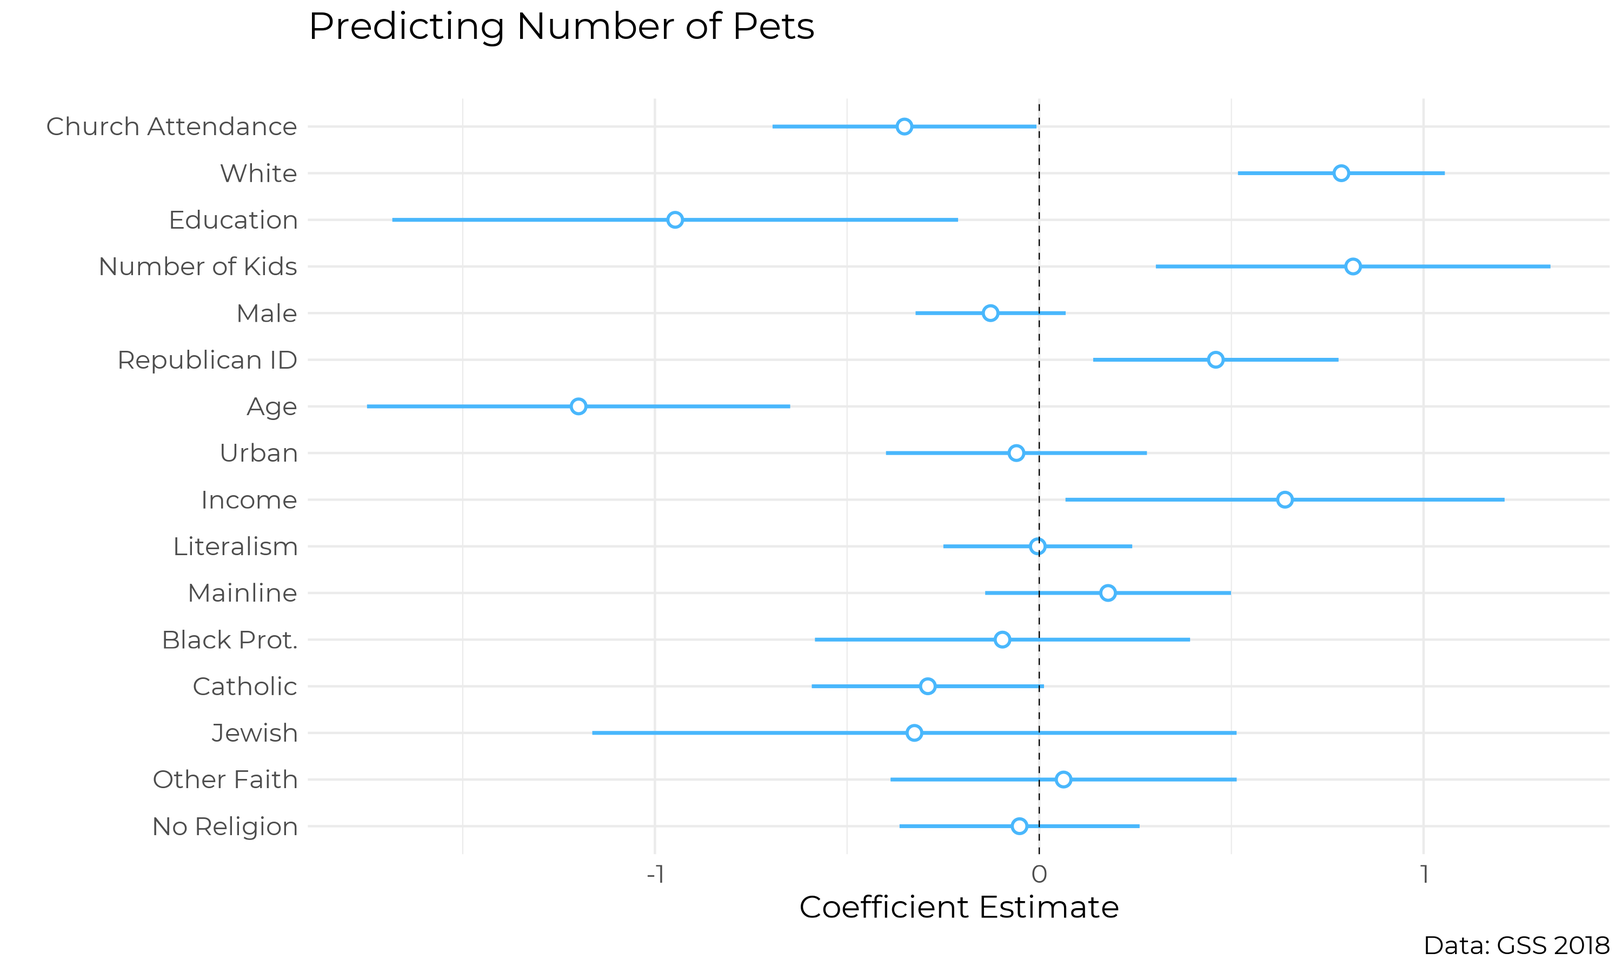
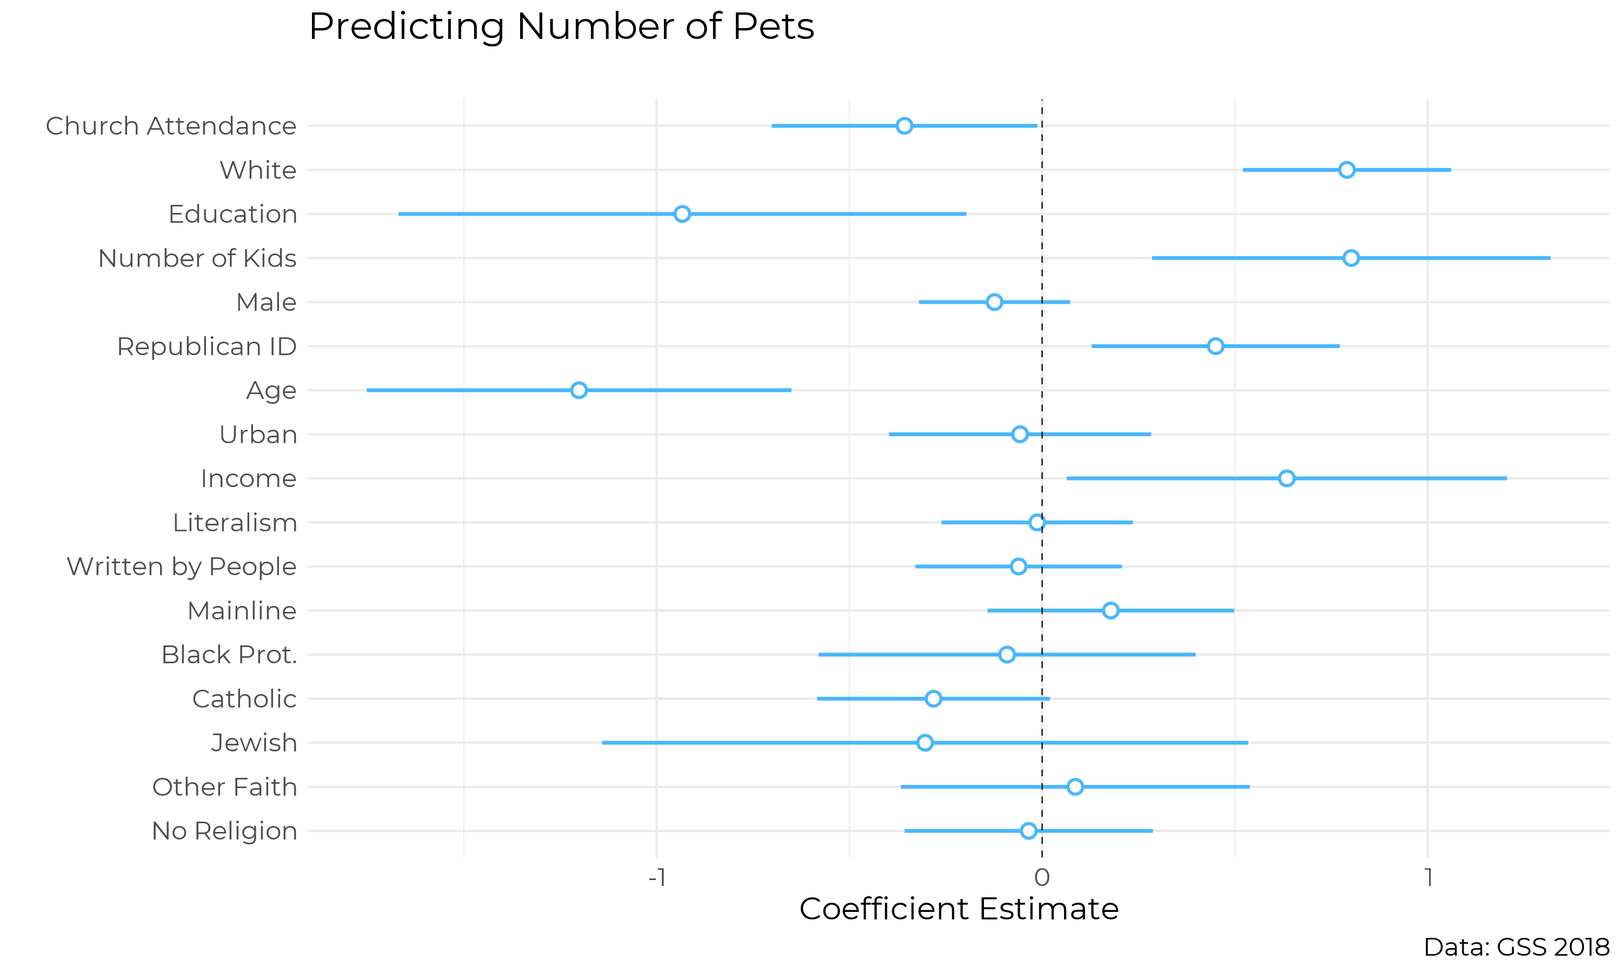
working through the R and R.

diff --git a/images/fig4_new.htm b/images/fig4_new.htm
@@ -1,62 +1,48 @@
 
 <table style="text-align:center"><caption><strong>Figure 3 Regression Model</strong></caption>
-<tr><td colspan="6" style="border-bottom: 1px solid black"></td></tr><tr><td style="text-align:left"></td><td colspan="5"><em>Dependent variable:</em></td></tr>
-<tr><td></td><td colspan="5" style="border-bottom: 1px solid black"></td></tr>
-<tr><td style="text-align:left"></td><td>Cat</td><td>Dog</td><td>Fish</td><td>Bird</td><td>Small Mammal</td></tr>
-<tr><td style="text-align:left"></td><td>(1)</td><td>(2)</td><td>(3)</td><td>(4)</td><td>(5)</td></tr>
-<tr><td colspan="6" style="border-bottom: 1px solid black"></td></tr><tr><td style="text-align:left">Church Attendance</td><td>-0.786<sup>*</sup></td><td>-0.061</td><td>-0.362</td><td>0.226</td><td>-1.385</td></tr>
-<tr><td style="text-align:left"></td><td>(0.371)</td><td>(0.417)</td><td>(0.845)</td><td>(0.744)</td><td>(0.901)</td></tr>
-<tr><td style="text-align:left"></td><td></td><td></td><td></td><td></td><td></td></tr>
-<tr><td style="text-align:left">White</td><td>0.577</td><td>-0.136</td><td>0.693</td><td>0.393</td><td>1.193</td></tr>
-<tr><td style="text-align:left"></td><td>(0.309)</td><td>(0.347)</td><td>(0.782)</td><td>(0.558)</td><td>(1.027)</td></tr>
-<tr><td style="text-align:left"></td><td></td><td></td><td></td><td></td><td></td></tr>
-<tr><td style="text-align:left">Male</td><td>-0.055</td><td>-0.558<sup>*</sup></td><td>-0.095</td><td>0.971<sup>*</sup></td><td>-0.193</td></tr>
-<tr><td style="text-align:left"></td><td>(0.201)</td><td>(0.228)</td><td>(0.466)</td><td>(0.420)</td><td>(0.474)</td></tr>
-<tr><td style="text-align:left"></td><td></td><td></td><td></td><td></td><td></td></tr>
-<tr><td style="text-align:left">Income</td><td>0.542</td><td>1.229</td><td>6.758</td><td>-1.020</td><td>1.398</td></tr>
-<tr><td style="text-align:left"></td><td>(0.651)</td><td>(0.675)</td><td>(3.767)</td><td>(0.855)</td><td>(2.246)</td></tr>
-<tr><td style="text-align:left"></td><td></td><td></td><td></td><td></td><td></td></tr>
-<tr><td style="text-align:left">Republican ID</td><td>0.051</td><td>0.132</td><td>0.947</td><td>0.796</td><td>1.730<sup>*</sup></td></tr>
-<tr><td style="text-align:left"></td><td>(0.324)</td><td>(0.358)</td><td>(0.793)</td><td>(0.656)</td><td>(0.834)</td></tr>
-<tr><td style="text-align:left"></td><td></td><td></td><td></td><td></td><td></td></tr>
-<tr><td style="text-align:left">Number of Kids</td><td>-0.008</td><td>0.872</td><td>1.408</td><td>0.548</td><td>2.266<sup>*</sup></td></tr>
-<tr><td style="text-align:left"></td><td>(0.525)</td><td>(0.603)</td><td>(1.075)</td><td>(0.924)</td><td>(1.144)</td></tr>
-<tr><td style="text-align:left"></td><td></td><td></td><td></td><td></td><td></td></tr>
-<tr><td style="text-align:left">Age</td><td>0.157</td><td>-0.469</td><td>-3.075<sup>*</sup></td><td>-1.135</td><td>-5.863<sup>*</sup></td></tr>
-<tr><td style="text-align:left"></td><td>(0.594)</td><td>(0.669)</td><td>(1.501)</td><td>(1.192)</td><td>(1.846)</td></tr>
-<tr><td style="text-align:left"></td><td></td><td></td><td></td><td></td><td></td></tr>
-<tr><td style="text-align:left">Education</td><td>1.047</td><td>-2.325<sup>*</sup></td><td>-3.732<sup>*</sup></td><td>-4.068<sup>*</sup></td><td>3.242</td></tr>
-<tr><td style="text-align:left"></td><td>(0.788)</td><td>(0.891)</td><td>(1.839)</td><td>(1.415)</td><td>(1.904)</td></tr>
-<tr><td style="text-align:left"></td><td></td><td></td><td></td><td></td><td></td></tr>
-<tr><td style="text-align:left">Urban</td><td>-0.381</td><td>-0.849<sup>*</sup></td><td>-0.032</td><td>1.116<sup>*</sup></td><td>0.046</td></tr>
-<tr><td style="text-align:left"></td><td>(0.374)</td><td>(0.372)</td><td>(0.817)</td><td>(0.543)</td><td>(0.823)</td></tr>
-<tr><td style="text-align:left"></td><td></td><td></td><td></td><td></td><td></td></tr>
-<tr><td style="text-align:left">Literalism</td><td>-0.481</td><td>0.277</td><td>0.160</td><td>-0.361</td><td>-0.481</td></tr>
-<tr><td style="text-align:left"></td><td>(0.265)</td><td>(0.306)</td><td>(0.578)</td><td>(0.539)</td><td>(0.671)</td></tr>
-<tr><td style="text-align:left"></td><td></td><td></td><td></td><td></td><td></td></tr>
-<tr><td style="text-align:left">Mainline</td><td>0.367</td><td>-0.936<sup>*</sup></td><td>0.154</td><td>-0.299</td><td>-1.444</td></tr>
-<tr><td style="text-align:left"></td><td>(0.311)</td><td>(0.345)</td><td>(0.743)</td><td>(0.843)</td><td>(1.113)</td></tr>
-<tr><td style="text-align:left"></td><td></td><td></td><td></td><td></td><td></td></tr>
-<tr><td style="text-align:left">Black Prot.</td><td>-0.768</td><td>-0.008</td><td>1.143</td><td>-0.209</td><td>1.616</td></tr>
-<tr><td style="text-align:left"></td><td>(0.709)</td><td>(0.689)</td><td>(1.329)</td><td>(1.224)</td><td>(1.485)</td></tr>
-<tr><td style="text-align:left"></td><td></td><td></td><td></td><td></td><td></td></tr>
-<tr><td style="text-align:left">Catholic</td><td>-0.760<sup>*</sup></td><td>0.131</td><td>-0.714</td><td>0.530</td><td>-0.924</td></tr>
-<tr><td style="text-align:left"></td><td>(0.327)</td><td>(0.392)</td><td>(0.849)</td><td>(0.602)</td><td>(0.847)</td></tr>
-<tr><td style="text-align:left"></td><td></td><td></td><td></td><td></td><td></td></tr>
-<tr><td style="text-align:left">Jewish</td><td>-15.765</td><td>-1.240</td><td>-13.403</td><td>2.297</td><td>1.624</td></tr>
-<tr><td style="text-align:left"></td><td>(575.951)</td><td>(0.893)</td><td>(918.449)</td><td>(1.262)</td><td>(1.019)</td></tr>
-<tr><td style="text-align:left"></td><td></td><td></td><td></td><td></td><td></td></tr>
-<tr><td style="text-align:left">Other Faith</td><td>0.346</td><td>-0.972<sup>*</sup></td><td>1.330</td><td>1.270</td><td>0.653</td></tr>
-<tr><td style="text-align:left"></td><td>(0.442)</td><td>(0.470)</td><td>(0.807)</td><td>(0.791)</td><td>(0.820)</td></tr>
-<tr><td style="text-align:left"></td><td></td><td></td><td></td><td></td><td></td></tr>
-<tr><td style="text-align:left">No Religion</td><td>-0.058</td><td>-0.237</td><td>-0.031</td><td>0.307</td><td>-0.711</td></tr>
-<tr><td style="text-align:left"></td><td>(0.310)</td><td>(0.370)</td><td>(0.674)</td><td>(0.643)</td><td>(0.659)</td></tr>
-<tr><td style="text-align:left"></td><td></td><td></td><td></td><td></td><td></td></tr>
-<tr><td style="text-align:left">Constant</td><td>-1.607</td><td>2.289<sup>*</sup></td><td>-6.833</td><td>-0.343</td><td>-5.400<sup>*</sup></td></tr>
-<tr><td style="text-align:left"></td><td>(0.857)</td><td>(0.939)</td><td>(3.857)</td><td>(1.409)</td><td>(2.641)</td></tr>
-<tr><td style="text-align:left"></td><td></td><td></td><td></td><td></td><td></td></tr>
-<tr><td colspan="6" style="border-bottom: 1px solid black"></td></tr><tr><td style="text-align:left">Observations</td><td>491</td><td>491</td><td>491</td><td>491</td><td>491</td></tr>
-<tr><td style="text-align:left">Log Likelihood</td><td>-303.809</td><td>-252.940</td><td>-84.265</td><td>-104.379</td><td>-78.179</td></tr>
-<tr><td style="text-align:left">Akaike Inf. Crit.</td><td>641.618</td><td>539.880</td><td>202.529</td><td>242.758</td><td>190.357</td></tr>
-<tr><td colspan="6" style="border-bottom: 1px solid black"></td></tr><tr><td style="text-align:left"><em>Note:</em></td><td colspan="5" style="text-align:right"><sup>*</sup>p<0.05; <sup>**</sup>p<[0.**]; <sup>***</sup>p<[0.***]</td></tr>
+<tr><td colspan="3" style="border-bottom: 1px solid black"></td></tr><tr><td style="text-align:left"></td><td colspan="2"><em>Dependent variable:</em></td></tr>
+<tr><td></td><td colspan="2" style="border-bottom: 1px solid black"></td></tr>
+<tr><td style="text-align:left"></td><td colspan="2">Cat</td></tr>
+<tr><td style="text-align:left"></td><td>(1)</td><td>(2)</td></tr>
+<tr><td colspan="3" style="border-bottom: 1px solid black"></td></tr><tr><td style="text-align:left">Church Attendance</td><td>-0.309</td><td>-0.203</td></tr>
+<tr><td style="text-align:left"></td><td>(0.298)</td><td>(0.421)</td></tr>
+<tr><td style="text-align:left"></td><td></td><td></td></tr>
+<tr><td style="text-align:left">White</td><td>1.063<sup>*</sup></td><td>-0.126</td></tr>
+<tr><td style="text-align:left"></td><td>(0.271)</td><td>(0.460)</td></tr>
+<tr><td style="text-align:left"></td><td></td><td></td></tr>
+<tr><td style="text-align:left">Male</td><td>-0.303</td><td>-0.220</td></tr>
+<tr><td style="text-align:left"></td><td>(0.191)</td><td>(0.249)</td></tr>
+<tr><td style="text-align:left"></td><td></td><td></td></tr>
+<tr><td style="text-align:left">Income</td><td>0.310</td><td>3.277<sup>*</sup></td></tr>
+<tr><td style="text-align:left"></td><td>(0.745)</td><td>(1.314)</td></tr>
+<tr><td style="text-align:left"></td><td></td><td></td></tr>
+<tr><td style="text-align:left">Republican ID</td><td>0.381</td><td>0.336</td></tr>
+<tr><td style="text-align:left"></td><td>(0.301)</td><td>(0.340)</td></tr>
+<tr><td style="text-align:left"></td><td></td><td></td></tr>
+<tr><td style="text-align:left">Number of Kids</td><td>0.855</td><td>-0.188</td></tr>
+<tr><td style="text-align:left"></td><td>(0.477)</td><td>(0.729)</td></tr>
+<tr><td style="text-align:left"></td><td></td><td></td></tr>
+<tr><td style="text-align:left">Age</td><td>-0.884</td><td>-2.509<sup>*</sup></td></tr>
+<tr><td style="text-align:left"></td><td>(0.504)</td><td>(0.691)</td></tr>
+<tr><td style="text-align:left"></td><td></td><td></td></tr>
+<tr><td style="text-align:left">Education</td><td>-1.250</td><td>1.858</td></tr>
+<tr><td style="text-align:left"></td><td>(0.807)</td><td>(0.992)</td></tr>
+<tr><td style="text-align:left"></td><td></td><td></td></tr>
+<tr><td style="text-align:left">Urban</td><td>-0.038</td><td>0.658</td></tr>
+<tr><td style="text-align:left"></td><td>(0.435)</td><td>(0.491)</td></tr>
+<tr><td style="text-align:left"></td><td></td><td></td></tr>
+<tr><td style="text-align:left">Literalism</td><td>-0.509<sup>*</sup></td><td>0.565</td></tr>
+<tr><td style="text-align:left"></td><td>(0.203)</td><td>(0.309)</td></tr>
+<tr><td style="text-align:left"></td><td></td><td></td></tr>
+<tr><td style="text-align:left">Written by Humans</td><td>-0.743</td><td>-0.605</td></tr>
+<tr><td style="text-align:left"></td><td>(0.452)</td><td>(0.423)</td></tr>
+<tr><td style="text-align:left"></td><td></td><td></td></tr>
+<tr><td style="text-align:left">Mainline</td><td>0.872</td><td>-2.376</td></tr>
+<tr><td style="text-align:left"></td><td>(0.733)</td><td>(1.538)</td></tr>
+<tr><td style="text-align:left"></td><td></td><td></td></tr>
+<tr><td colspan="3" style="border-bottom: 1px solid black"></td></tr><tr><td style="text-align:left">Observations</td><td>215</td><td>112</td></tr>
+<tr><td style="text-align:left">Log Likelihood</td><td>-385.697</td><td>-195.495</td></tr>
+<tr><td style="text-align:left">theta</td><td>0.965<sup>*</sup> (0.159)</td><td>1.160<sup>*</sup> (0.273)</td></tr>
+<tr><td style="text-align:left">Akaike Inf. Crit.</td><td>795.394</td><td>414.991</td></tr>
+<tr><td colspan="3" style="border-bottom: 1px solid black"></td></tr><tr><td style="text-align:left"><em>Note:</em></td><td colspan="2" style="text-align:right"><sup>*</sup>p<0.05; <sup>**</sup>p<[0.**]; <sup>***</sup>p<[0.***]</td></tr>
 </table>

diff --git a/images/fig3_new.htm b/images/fig3_new.htm
@@ -5,42 +5,45 @@
 <tr><td style="text-align:left"></td><td colspan="3">Predicting Number of Pets</td></tr>
 <tr><td style="text-align:left"></td><td>Evangelical</td><td>Mainline</td><td>Catholic</td></tr>
 <tr><td style="text-align:left"></td><td>(1)</td><td>(2)</td><td>(3)</td></tr>
-<tr><td colspan="4" style="border-bottom: 1px solid black"></td></tr><tr><td style="text-align:left">Church Attendance</td><td>-0.256</td><td>-0.237</td><td>-0.394</td></tr>
-<tr><td style="text-align:left"></td><td>(0.298)</td><td>(0.427)</td><td>(0.398)</td></tr>
+<tr><td colspan="4" style="border-bottom: 1px solid black"></td></tr><tr><td style="text-align:left">Church Attendance</td><td>-0.309</td><td>-0.203</td><td>-0.249</td></tr>
+<tr><td style="text-align:left"></td><td>(0.298)</td><td>(0.421)</td><td>(0.395)</td></tr>
 <tr><td style="text-align:left"></td><td></td><td></td><td></td></tr>
-<tr><td style="text-align:left">White</td><td>1.063<sup>*</sup></td><td>-0.083</td><td>1.066<sup>*</sup></td></tr>
-<tr><td style="text-align:left"></td><td>(0.271)</td><td>(0.464)</td><td>(0.306)</td></tr>
+<tr><td style="text-align:left">White</td><td>1.063<sup>*</sup></td><td>-0.126</td><td>1.072<sup>*</sup></td></tr>
+<tr><td style="text-align:left"></td><td>(0.271)</td><td>(0.460)</td><td>(0.304)</td></tr>
 <tr><td style="text-align:left"></td><td></td><td></td><td></td></tr>
-<tr><td style="text-align:left">Male</td><td>-0.275</td><td>-0.250</td><td>0.081</td></tr>
-<tr><td style="text-align:left"></td><td>(0.191)</td><td>(0.251)</td><td>(0.237)</td></tr>
+<tr><td style="text-align:left">Male</td><td>-0.303</td><td>-0.220</td><td>0.038</td></tr>
+<tr><td style="text-align:left"></td><td>(0.191)</td><td>(0.249)</td><td>(0.237)</td></tr>
 <tr><td style="text-align:left"></td><td></td><td></td><td></td></tr>
-<tr><td style="text-align:left">Income</td><td>0.304</td><td>3.310<sup>*</sup></td><td>-0.852</td></tr>
-<tr><td style="text-align:left"></td><td>(0.751)</td><td>(1.319)</td><td>(0.626)</td></tr>
+<tr><td style="text-align:left">Income</td><td>0.310</td><td>3.277<sup>*</sup></td><td>-0.806</td></tr>
+<tr><td style="text-align:left"></td><td>(0.745)</td><td>(1.314)</td><td>(0.623)</td></tr>
 <tr><td style="text-align:left"></td><td></td><td></td><td></td></tr>
-<tr><td style="text-align:left">Republican ID</td><td>0.394</td><td>0.401</td><td>0.357</td></tr>
-<tr><td style="text-align:left"></td><td>(0.303)</td><td>(0.343)</td><td>(0.381)</td></tr>
+<tr><td style="text-align:left">Republican ID</td><td>0.381</td><td>0.336</td><td>0.381</td></tr>
+<tr><td style="text-align:left"></td><td>(0.301)</td><td>(0.340)</td><td>(0.378)</td></tr>
 <tr><td style="text-align:left"></td><td></td><td></td><td></td></tr>
-<tr><td style="text-align:left">Number of Kids</td><td>0.823</td><td>-0.133</td><td>0.847</td></tr>
-<tr><td style="text-align:left"></td><td>(0.479)</td><td>(0.741)</td><td>(0.587)</td></tr>
+<tr><td style="text-align:left">Number of Kids</td><td>0.855</td><td>-0.188</td><td>1.006</td></tr>
+<tr><td style="text-align:left"></td><td>(0.477)</td><td>(0.729)</td><td>(0.578)</td></tr>
 <tr><td style="text-align:left"></td><td></td><td></td><td></td></tr>
-<tr><td style="text-align:left">Age</td><td>-0.938</td><td>-2.401<sup>*</sup></td><td>-2.518<sup>*</sup></td></tr>
-<tr><td style="text-align:left"></td><td>(0.505)</td><td>(0.690)</td><td>(0.652)</td></tr>
+<tr><td style="text-align:left">Age</td><td>-0.884</td><td>-2.509<sup>*</sup></td><td>-2.341<sup>*</sup></td></tr>
+<tr><td style="text-align:left"></td><td>(0.504)</td><td>(0.691)</td><td>(0.644)</td></tr>
 <tr><td style="text-align:left"></td><td></td><td></td><td></td></tr>
-<tr><td style="text-align:left">Education</td><td>-1.303</td><td>1.764</td><td>-1.920<sup>*</sup></td></tr>
-<tr><td style="text-align:left"></td><td>(0.811)</td><td>(1.006)</td><td>(0.826)</td></tr>
+<tr><td style="text-align:left">Education</td><td>-1.250</td><td>1.858</td><td>-1.837<sup>*</sup></td></tr>
+<tr><td style="text-align:left"></td><td>(0.807)</td><td>(0.992)</td><td>(0.822)</td></tr>
 <tr><td style="text-align:left"></td><td></td><td></td><td></td></tr>
-<tr><td style="text-align:left">Urban</td><td>-0.050</td><td>0.610</td><td>-0.748</td></tr>
-<tr><td style="text-align:left"></td><td>(0.435)</td><td>(0.489)</td><td>(0.388)</td></tr>
+<tr><td style="text-align:left">Urban</td><td>-0.038</td><td>0.658</td><td>-0.834<sup>*</sup></td></tr>
+<tr><td style="text-align:left"></td><td>(0.435)</td><td>(0.491)</td><td>(0.393)</td></tr>
 <tr><td style="text-align:left"></td><td></td><td></td><td></td></tr>
-<tr><td style="text-align:left">Literalism</td><td>-0.467<sup>*</sup></td><td>0.617<sup>*</sup></td><td>0.074</td></tr>
-<tr><td style="text-align:left"></td><td>(0.203)</td><td>(0.313)</td><td>(0.284)</td></tr>
+<tr><td style="text-align:left">Literalism</td><td>-0.509<sup>*</sup></td><td>0.565</td><td>0.201</td></tr>
+<tr><td style="text-align:left"></td><td>(0.203)</td><td>(0.309)</td><td>(0.288)</td></tr>
 <tr><td style="text-align:left"></td><td></td><td></td><td></td></tr>
-<tr><td style="text-align:left">Constant</td><td>0.855</td><td>-2.525</td><td>2.624<sup>*</sup></td></tr>
-<tr><td style="text-align:left"></td><td>(0.737)</td><td>(1.539)</td><td>(0.738)</td></tr>
+<tr><td style="text-align:left">Written by Humans</td><td>-0.743</td><td>-0.605</td><td>0.541</td></tr>
+<tr><td style="text-align:left"></td><td>(0.452)</td><td>(0.423)</td><td>(0.307)</td></tr>
+<tr><td style="text-align:left"></td><td></td><td></td><td></td></tr>
+<tr><td style="text-align:left">Constant</td><td>0.872</td><td>-2.376</td><td>2.201<sup>*</sup></td></tr>
+<tr><td style="text-align:left"></td><td>(0.733)</td><td>(1.538)</td><td>(0.744)</td></tr>
 <tr><td style="text-align:left"></td><td></td><td></td><td></td></tr>
 <tr><td colspan="4" style="border-bottom: 1px solid black"></td></tr><tr><td style="text-align:left">Observations</td><td>215</td><td>112</td><td>168</td></tr>
-<tr><td style="text-align:left">Log Likelihood</td><td>-387.032</td><td>-196.449</td><td>-248.129</td></tr>
-<tr><td style="text-align:left">theta</td><td>0.944<sup>*</sup> (0.154)</td><td>1.106<sup>*</sup> (0.254)</td><td>0.860<sup>*</sup> (0.187)</td></tr>
-<tr><td style="text-align:left">Akaike Inf. Crit.</td><td>796.063</td><td>414.897</td><td>518.258</td></tr>
+<tr><td style="text-align:left">Log Likelihood</td><td>-385.697</td><td>-195.495</td><td>-246.696</td></tr>
+<tr><td style="text-align:left">theta</td><td>0.965<sup>*</sup> (0.159)</td><td>1.160<sup>*</sup> (0.273)</td><td>0.899<sup>*</sup> (0.199)</td></tr>
+<tr><td style="text-align:left">Akaike Inf. Crit.</td><td>795.394</td><td>414.991</td><td>517.392</td></tr>
 <tr><td colspan="4" style="border-bottom: 1px solid black"></td></tr><tr><td style="text-align:left"><em>Note:</em></td><td colspan="3" style="text-align:right"><sup>*</sup>p<0.05; <sup>**</sup>p<[0.**]; <sup>***</sup>p<[0.***]</td></tr>
 </table>

diff --git a/images/fig1.htm b/images/fig1.htm
@@ -3,60 +3,63 @@
 <tr><td colspan="2" style="border-bottom: 1px solid black"></td></tr><tr><td style="text-align:left"></td><td><em>Dependent variable:</em></td></tr>
 <tr><td></td><td colspan="1" style="border-bottom: 1px solid black"></td></tr>
 <tr><td style="text-align:left"></td><td>Predicting Number of Pets</td></tr>
-<tr><td colspan="2" style="border-bottom: 1px solid black"></td></tr><tr><td style="text-align:left">Church Attendance</td><td>-0.351<sup>*</sup></td></tr>
-<tr><td style="text-align:left"></td><td>(0.175)</td></tr>
+<tr><td colspan="2" style="border-bottom: 1px solid black"></td></tr><tr><td style="text-align:left">Church Attendance</td><td>-0.357<sup>*</sup></td></tr>
+<tr><td style="text-align:left"></td><td>(0.176)</td></tr>
 <tr><td style="text-align:left"></td><td></td></tr>
-<tr><td style="text-align:left">White</td><td>0.786<sup>*</sup></td></tr>
-<tr><td style="text-align:left"></td><td>(0.137)</td></tr>
+<tr><td style="text-align:left">White</td><td>0.791<sup>*</sup></td></tr>
+<tr><td style="text-align:left"></td><td>(0.138)</td></tr>
 <tr><td style="text-align:left"></td><td></td></tr>
-<tr><td style="text-align:left">Male</td><td>-0.127</td></tr>
+<tr><td style="text-align:left">Male</td><td>-0.123</td></tr>
 <tr><td style="text-align:left"></td><td>(0.100)</td></tr>
 <tr><td style="text-align:left"></td><td></td></tr>
-<tr><td style="text-align:left">Income</td><td>0.640<sup>*</sup></td></tr>
+<tr><td style="text-align:left">Income</td><td>0.635<sup>*</sup></td></tr>
 <tr><td style="text-align:left"></td><td>(0.291)</td></tr>
 <tr><td style="text-align:left"></td><td></td></tr>
-<tr><td style="text-align:left">Republican ID</td><td>0.460<sup>*</sup></td></tr>
-<tr><td style="text-align:left"></td><td>(0.163)</td></tr>
+<tr><td style="text-align:left">Republican ID</td><td>0.450<sup>*</sup></td></tr>
+<tr><td style="text-align:left"></td><td>(0.164)</td></tr>
 <tr><td style="text-align:left"></td><td></td></tr>
-<tr><td style="text-align:left">Number of Kids</td><td>0.817<sup>*</sup></td></tr>
-<tr><td style="text-align:left"></td><td>(0.262)</td></tr>
+<tr><td style="text-align:left">Number of Kids</td><td>0.802<sup>*</sup></td></tr>
+<tr><td style="text-align:left"></td><td>(0.264)</td></tr>
 <tr><td style="text-align:left"></td><td></td></tr>
-<tr><td style="text-align:left">Age</td><td>-1.199<sup>*</sup></td></tr>
+<tr><td style="text-align:left">Age</td><td>-1.201<sup>*</sup></td></tr>
 <tr><td style="text-align:left"></td><td>(0.281)</td></tr>
 <tr><td style="text-align:left"></td><td></td></tr>
-<tr><td style="text-align:left">Education</td><td>-0.947<sup>*</sup></td></tr>
+<tr><td style="text-align:left">Education</td><td>-0.933<sup>*</sup></td></tr>
 <tr><td style="text-align:left"></td><td>(0.376)</td></tr>
 <tr><td style="text-align:left"></td><td></td></tr>
-<tr><td style="text-align:left">Urban</td><td>-0.059</td></tr>
-<tr><td style="text-align:left"></td><td>(0.173)</td></tr>
+<tr><td style="text-align:left">Urban</td><td>-0.057</td></tr>
+<tr><td style="text-align:left"></td><td>(0.174)</td></tr>
 <tr><td style="text-align:left"></td><td></td></tr>
-<tr><td style="text-align:left">Literalism</td><td>-0.004</td></tr>
-<tr><td style="text-align:left"></td><td>(0.125)</td></tr>
+<tr><td style="text-align:left">Literalism</td><td>-0.013</td></tr>
+<tr><td style="text-align:left"></td><td>(0.127)</td></tr>
 <tr><td style="text-align:left"></td><td></td></tr>
-<tr><td style="text-align:left">Mainline</td><td>0.179</td></tr>
+<tr><td style="text-align:left">Written by Humans</td><td>-0.061</td></tr>
+<tr><td style="text-align:left"></td><td>(0.137)</td></tr>
+<tr><td style="text-align:left"></td><td></td></tr>
+<tr><td style="text-align:left">Mainline</td><td>0.178</td></tr>
 <tr><td style="text-align:left"></td><td>(0.163)</td></tr>
 <tr><td style="text-align:left"></td><td></td></tr>
-<tr><td style="text-align:left">Black Prot.</td><td>-0.096</td></tr>
+<tr><td style="text-align:left">Black Prot.</td><td>-0.091</td></tr>
 <tr><td style="text-align:left"></td><td>(0.249)</td></tr>
 <tr><td style="text-align:left"></td><td></td></tr>
-<tr><td style="text-align:left">Catholic</td><td>-0.290</td></tr>
+<tr><td style="text-align:left">Catholic</td><td>-0.281</td></tr>
 <tr><td style="text-align:left"></td><td>(0.154)</td></tr>
 <tr><td style="text-align:left"></td><td></td></tr>
-<tr><td style="text-align:left">Jewish</td><td>-0.325</td></tr>
+<tr><td style="text-align:left">Jewish</td><td>-0.303</td></tr>
 <tr><td style="text-align:left"></td><td>(0.428)</td></tr>
 <tr><td style="text-align:left"></td><td></td></tr>
-<tr><td style="text-align:left">Other Faith</td><td>0.063</td></tr>
-<tr><td style="text-align:left"></td><td>(0.230)</td></tr>
+<tr><td style="text-align:left">Other Faith</td><td>0.086</td></tr>
+<tr><td style="text-align:left"></td><td>(0.231)</td></tr>
 <tr><td style="text-align:left"></td><td></td></tr>
-<tr><td style="text-align:left">No Religion</td><td>-0.051</td></tr>
-<tr><td style="text-align:left"></td><td>(0.159)</td></tr>
+<tr><td style="text-align:left">No Religion</td><td>-0.035</td></tr>
+<tr><td style="text-align:left"></td><td>(0.164)</td></tr>
 <tr><td style="text-align:left"></td><td></td></tr>
-<tr><td style="text-align:left">Constant</td><td>0.434</td></tr>
-<tr><td style="text-align:left"></td><td>(0.383)</td></tr>
+<tr><td style="text-align:left">Constant</td><td>0.443</td></tr>
+<tr><td style="text-align:left"></td><td>(0.384)</td></tr>
 <tr><td style="text-align:left"></td><td></td></tr>
 <tr><td colspan="2" style="border-bottom: 1px solid black"></td></tr><tr><td style="text-align:left">Observations</td><td>845</td></tr>
-<tr><td style="text-align:left">Log Likelihood</td><td>-1,436.245</td></tr>
-<tr><td style="text-align:left">theta</td><td>0.778<sup>*</sup> (0.065)</td></tr>
-<tr><td style="text-align:left">Akaike Inf. Crit.</td><td>2,906.490</td></tr>
+<tr><td style="text-align:left">Log Likelihood</td><td>-1,436.146</td></tr>
+<tr><td style="text-align:left">theta</td><td>0.778<sup>*</sup> (0.066)</td></tr>
+<tr><td style="text-align:left">Akaike Inf. Crit.</td><td>2,908.291</td></tr>
 <tr><td colspan="2" style="border-bottom: 1px solid black"></td></tr><tr><td style="text-align:left"><em>Note:</em></td><td style="text-align:right"><sup>*</sup>p<0.05; <sup>**</sup>p<[0.**]; <sup>***</sup>p<[0.***]</td></tr>
 </table>
